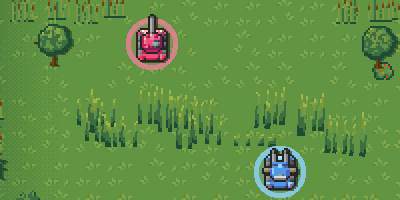
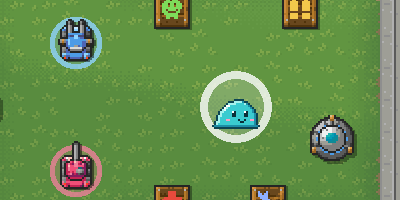
Refresh the homepage screenshots for 0.3.0 (BB-257) (#251)
Fixes BB-257

diff --git a/site/src/scripts/strings.ts b/site/src/scripts/strings.ts
@@ -111,7 +111,7 @@ const EN: Strings = {
   takeTitle: "Take it with you",
   takeLead: "The same game on every screen. The browser is just the quickest way in.",
   ios: "iPhone and iPad",
-  iphoneAlt: "BongBong running on an iPhone 18 Pro",
+  iphoneAlt: "A tank battle in Glasshouse Gardens on an iPhone 18 Pro",
   iosText: "Left thumb steers, right thumb fires. Plays offline.",
   iosLink: "Download from the App Store",
   iosSoon: "Coming soon to the App Store.",
@@ -164,7 +164,7 @@ const SL: Strings = {
   takeTitle: "Vzemi jo s seboj",
   takeLead: "Ista igra na vsakem zaslonu. Brskalnik je le najhitrejša pot do nje.",
   ios: "iPhone in iPad",
-  iphoneAlt: "BongBong na iPhonu 18 Pro",
+  iphoneAlt: "Tankovska bitka v vrtu s steklenjaki na iPhonu 18 Pro",
   iosText: "Levi palec vozi, desni strelja. Deluje tudi brez povezave.",
   iosLink: "Prenesi iz trgovine App Store",
   iosSoon: "Kmalu v trgovini App Store.",

diff --git a/tools/web/gen_site_art.py b/tools/web/gen_site_art.py
@@ -1,4 +1,4 @@
-"""The home page's pictures, into site/public/art/: three shipped maps as the
+"""The home page's pictures, into site/public/art/: shipped maps as the
 game draws them, the four players' tanks and an enemy, and the seven bongs -
 all at the game's own pixels, which the page scales with `image-rendering:
 pixelated`.
@@ -13,10 +13,11 @@ the art or one of these maps changes.
     nix-shell -p "python3.withPackages (ps: [ps.pillow])" \
         --run "python3 tools/web/gen_site_art.py [--mapshot target/release/mapshot]"
 
-With `--iphone BEZEL SCREEN` it also writes iphone.webp, the "Take it with
-you" picture: a simulator screenshot of the game (`just run-ios-sim` with
-BONGBONG_IOS_DEVICE on the newest iPhone, then `just ios-screenshot`) set into
-Apple's product bezel for that iPhone, landscape (Bezel-iPhone-<N>.dmg from
+With `--iphone-screen SCREEN` it also writes iphone.webp, the "Take it with
+you" picture: a landscape simulator screenshot of the game (`just run-ios-sim`
+with BONGBONG_IOS_DEVICE on the newest iPhone, then `just ios-screenshot`).
+`--iphone BEZEL SCREEN` instead sets that screenshot into Apple's product
+bezel for that iPhone, landscape (Bezel-iPhone-<N>.dmg from
 developer.apple.com/design/resources, under Apple's Design Resources license;
 the bezel itself never goes in the repo). Apple's marketing guidelines want
 the latest model and the bezel as provided - only scaled, never cropped,
@@ -38,10 +39,10 @@ OUT = os.path.join(ROOT, "site", "public", "art")
 # map's 1:1 render, (x, y, width, height) in field pixels. The cards are
 # 2:1 at about the size a card shows them; the bands are a page's width.
 CROPS = [
-    ("field-default", "default", (600, 420, 400, 200)),
-    ("field-archipelago", "archipelago", (40, 180, 400, 200)),
-    ("field-oasis", "oasis-bazaar", (330, 280, 400, 200)),
-    ("turn-default", "default", (610, 440, 400, 170)),
+    ("field-vulkan", "vulkan", (660, 560, 400, 200)),
+    ("field-archipelago", "archipelago", (148, 693, 400, 200)),
+    ("field-oasis", "oasis-bazaar", (575, 495, 400, 200)),
+    ("turn-default", "default", (540, 423, 400, 170)),
     ("band-archipelago", "archipelago", (0, 325, 1792, 160)),
     ("band-oasis", "oasis-bazaar", (0, 300, 1536, 160)),
 ]
@@ -80,6 +81,14 @@ def save(image, name, ext):
 IPHONE_WIDTH = 1120  # twice the widest the page shows it, for a 2x screen
 
 
+def save_iphone(picture):
+    height = round(picture.height * IPHONE_WIDTH / picture.width)
+    picture = picture.resize((IPHONE_WIDTH, height), Image.LANCZOS)
+    path = os.path.join(OUT, "iphone.webp")
+    picture.save(path, "WEBP", quality=90, method=6)
+    print(os.path.relpath(path, ROOT), picture.size)
+
+
 def iphone(bezel_path, screen_path):
     """The screenshot in the bezel's transparent screen, which is found by
     filling from the bezel's centre and clips the screenshot to its rounded
@@ -96,22 +105,24 @@ def iphone(bezel_path, screen_path):
     picture = Image.new("RGBA", bezel.size)
     picture.paste(screen, box[:2], opening.crop(box))
     picture.alpha_composite(bezel)
-    height = round(picture.height * IPHONE_WIDTH / picture.width)
-    picture = picture.resize((IPHONE_WIDTH, height), Image.LANCZOS)
-    path = os.path.join(OUT, "iphone.webp")
-    picture.save(path, "WEBP", quality=90, method=6)
-    print(os.path.relpath(path, ROOT), picture.size)
+    save_iphone(picture)
 
 
 def main():
     parser = argparse.ArgumentParser(description=__doc__.splitlines()[0])
     parser.add_argument("--mapshot", help="a built mapshot binary (default: cargo run --release --bin mapshot)")
-    parser.add_argument("--iphone", nargs=2, metavar=("BEZEL", "SCREEN"),
-                        help="also write iphone.webp: the landscape bezel PNG and a simulator screenshot")
+    mobile = parser.add_mutually_exclusive_group()
+    mobile.add_argument("--iphone", nargs=2, metavar=("BEZEL", "SCREEN"),
+                        help="also write iphone.webp with a landscape bezel PNG and a simulator screenshot")
+    mobile.add_argument("--iphone-screen", metavar="SCREEN",
+                        help="also write iphone.webp from a landscape simulator screenshot")
     args = parser.parse_args()
     os.makedirs(OUT, exist_ok=True)
     if args.iphone:
         iphone(*args.iphone)
+    elif args.iphone_screen:
+        with Image.open(args.iphone_screen) as picture:
+            save_iphone(picture.convert("RGB"))
 
     with tempfile.TemporaryDirectory() as shots:
         fields = render_maps(args.mapshot, shots)

diff --git a/docs/platforms.md b/docs/platforms.md
@@ -232,10 +232,8 @@ Target `wasm32-unknown-emscripten`, run through `sola-raylib`'s `game_loop::run`
   The fonts are Silkscreen for labels and IBM Plex Sans for prose, self-hosted from the
   `@fontsource` packages (Latin and Latin Extended); the map crops and sprites in
   `site/public/art/` come from `tools/web/gen_site_art.py` (mapshot's CPU renderer, then crops) -
-  regenerate them, never edit them by hand. `iphone.webp` is a simulator screenshot of the game set
-  into Apple's landscape bezel of the newest iPhone (`--iphone BEZEL SCREEN`; the bezel comes from
-  developer.apple.com/design/resources under Apple's Design Resources license and stays out of the
-  repo), shown whole and unaltered as Apple's marketing guidelines ask; the credit line names it.
+  regenerate them, never edit them by hand. `iphone.webp` shows a full landscape frame from the
+  iPhone simulator (`--iphone-screen SCREEN`).
 - **The page's JavaScript lives in `site/src/scripts/`** (entry `main.ts`; `runtime.ts` defines
   `window.Module`, `loading-panel.ts`, `input.ts`, `fullscreen.ts`, `more-panel.ts`, `newsletter.ts`,
   `tuning-panel.ts`, `strings.ts` - the page's own words in each shipped language, picked by the
